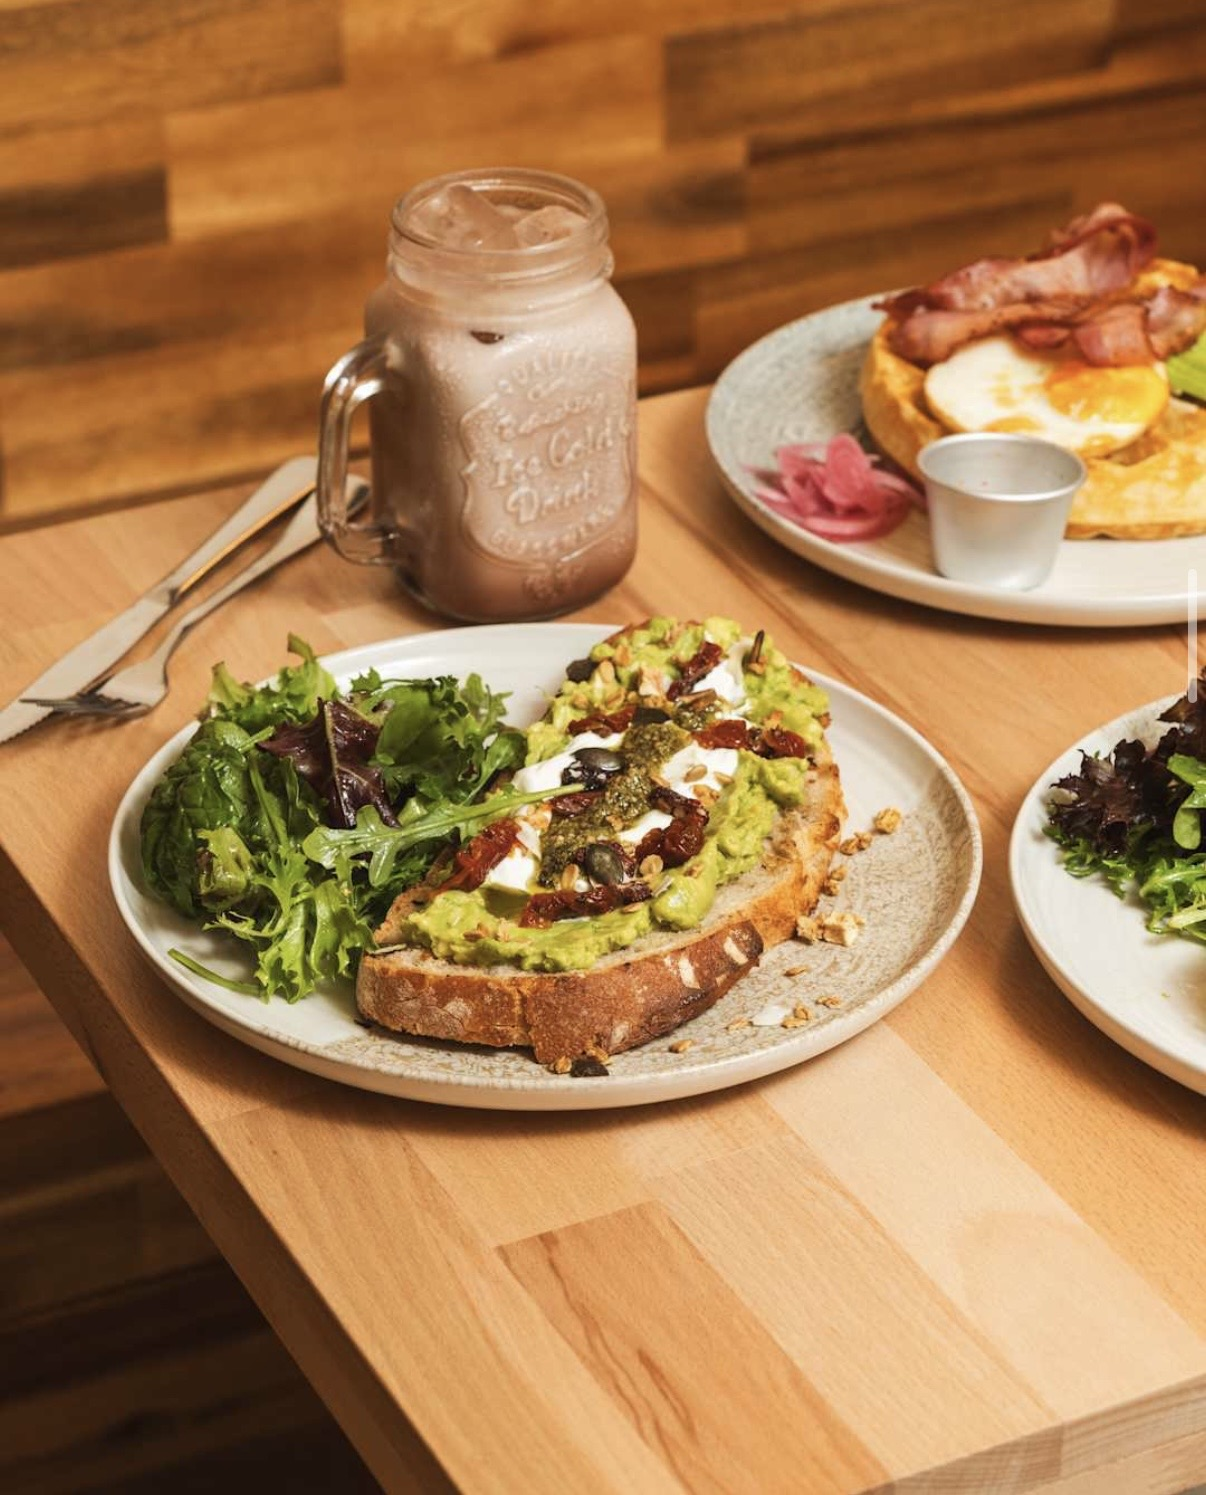
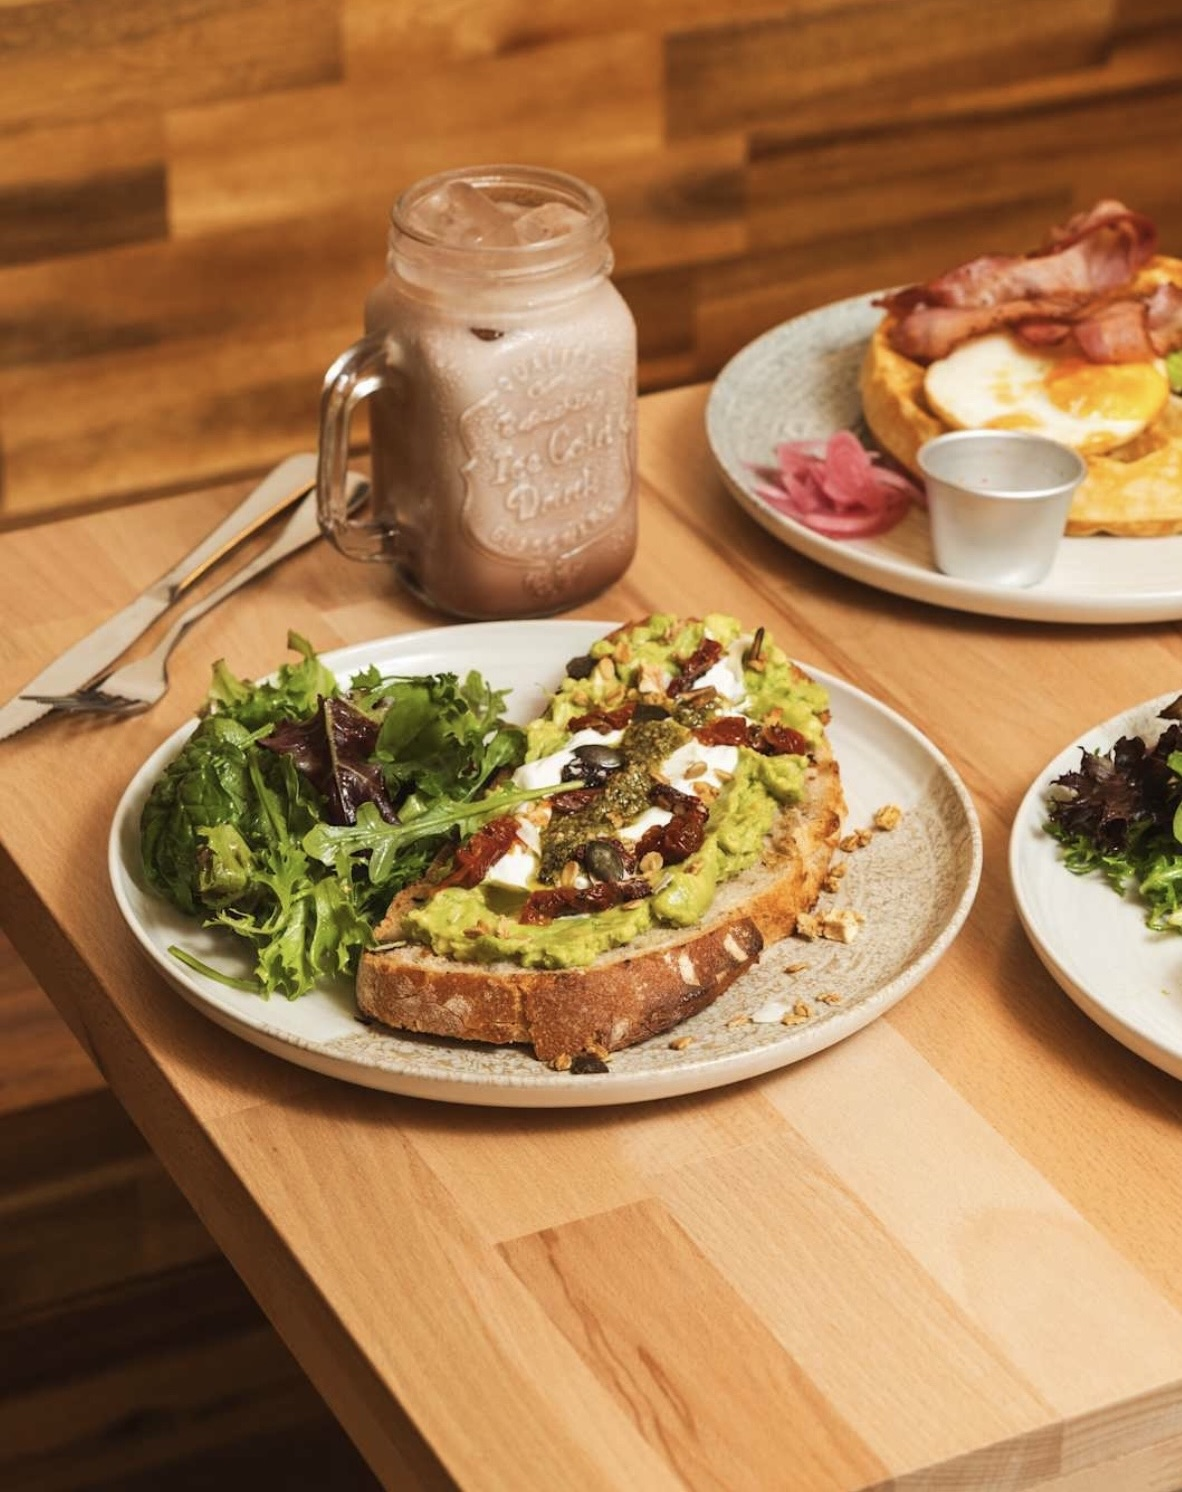
toggle EN header, carrousel benedict + fondu, cadrages photos, traduction EN complete

diff --git a/src/components/Menu.tsx b/src/components/Menu.tsx
@@ -1,6 +1,8 @@
 import menulogo from '../assets/menulogo.png';
 import brunch from '../assets/formuleBrunch.jpg';
 import avocadoEgg from '../assets/avocadoEgg.jpg';
+import salmonEgg from '../assets/salmonEgg.jpg';
+import baconEgg from '../assets/baconEgg.jpg';
 import wafflebacon from '../assets/waffleBacon2.jpg';
 import avocadoToast from '../assets/avocadoToast.jpg';
 import salmonToast from '../assets/salmonToast.png';
@@ -11,12 +13,13 @@ import petitgranola from '../assets/smallGranola.jpg';
 import roseLatte from '../assets/roseLatte.jpg';
 import iceMaRas from '../assets/iceMatchaRas2.jpg';
 
-import { type ReactNode } from 'react';
+import { useState, useEffect, useRef, type ReactNode } from 'react';
 
 // Interfaces de typage
 interface DishCardProps {
   image?: string;
   alt?: string;
+  imgPosition?: string;
   name: string;
   price: string | number;
   description?: string;
@@ -33,6 +36,7 @@ interface MenuSectionProps {
 function DishCard({
   image = '',
   alt = '',
+  imgPosition = 'center',
   name,
   price,
   description = '',
@@ -40,7 +44,102 @@ function DishCard({
 }: DishCardProps) {
   return (
     <article className="dish">
-      {image && <img src={image} alt={alt} className="dish-img" />}
+      {image && (
+        <img
+          src={image}
+          alt={alt}
+          className="dish-img"
+          style={{ objectPosition: imgPosition }}
+        />
+      )}
+      <div className="dish-text">
+        <h4>
+          {name} - {price}
+        </h4>
+        <p>{description}</p>
+        {extras && <p>{extras}</p>}
+      </div>
+    </article>
+  );
+}
+
+// Mini-carrousel : les photos défilent toutes seules, dots cliquables + swipe.
+// Dès que le visiteur prend la main, on ralentit (5s -> 15s) pour le laisser regarder.
+function DishCarousel({
+  images,
+  name,
+  price,
+  description = '',
+  extras = '',
+  en = false,
+}: {
+  images: { src: string; alt: string; position?: string; zoom?: number }[];
+  name: string;
+  price: string | number;
+  description?: string;
+  extras?: string;
+  en?: boolean;
+}) {
+  const [index, setIndex] = useState(0);
+  const [delay, setDelay] = useState(5000);
+  const touchX = useRef<number | null>(null);
+
+  useEffect(() => {
+    const id = setInterval(() => {
+      setIndex((i) => (i + 1) % images.length);
+    }, delay);
+    return () => clearInterval(id);
+  }, [index, delay, images.length]);
+
+  const goTo = (i: number) => {
+    setIndex((i + images.length) % images.length);
+    setDelay(10000);
+  };
+
+  return (
+    <article className="dish">
+      <div>
+        <div style={{ overflow: 'hidden', borderRadius: 12 }}>
+        <img
+          key={index}
+          src={images[index].src}
+          alt={images[index].alt}
+          className="dish-img dish-fade"
+            style={{
+              display: 'block',
+              objectPosition: images[index].position ?? 'center',
+              transform: images[index].zoom
+                ? `scale(${images[index].zoom})`
+                : undefined,
+            }}
+          onTouchStart={(e) => {
+            touchX.current = e.touches[0].clientX;
+          }}
+          onTouchEnd={(e) => {
+            if (touchX.current === null) return;
+            const dx = e.changedTouches[0].clientX - touchX.current;
+            touchX.current = null;
+            if (dx < -40) goTo(index + 1); // swipe gauche -> suivante
+            else if (dx > 40) goTo(index - 1); // swipe droit -> précédente
+          }}
+        />
+        </div>
+        <div className="dots">
+          {images.map((_, i) => (
+            <button
+              key={i}
+              type="button"
+              className={i === index ? 'dot dot-active' : 'dot'}
+              aria-label={
+                en
+                  ? `Photo ${i + 1} of ${images.length}`
+                  : `Photo ${i + 1} sur ${images.length}`
+              }
+              onClick={() => goTo(i)}
+            />
+          ))}
+        </div>
+      </div>
       <div className="dish-text">
         <h4>
           {name} - {price}
@@ -100,10 +199,17 @@ export default function Menu({ en = false }: { en?: boolean }) {
         </article>
       </MenuSection>
 
-      <MenuSection id="sale" title={en ? 'Savory' : 'Plat Salé'}>
-        <DishCard
-          image={avocadoEgg}
-          alt="Avocado egg benedict"
+      <MenuSection id="sale" title={en ? 'Savory dish' : 'Plat Salé'}>
+        <DishCarousel
+          images={[
+            { src: avocadoEgg, alt: 'Avocado egg benedict', zoom: 1.15 },
+            {
+              src: salmonEgg,
+              alt: 'Salmon egg benedict',
+              position: 'center 75%',
+            },
+            { src: baconEgg, alt: 'Bacon egg benedict' },
+          ]}
           name="Avocado Egg Benedict"
           price="13,90"
           description={
@@ -112,6 +218,7 @@ export default function Menu({ en = false }: { en?: boolean }) {
               : 'Pain de muffin, avocat, coleslaw, 2 œufs pochés, sauce hollandaise, salade'
           }
           extras={en ? 'SMOKED SALMON or BACON + 2€' : 'SAUMON FUMÉ ou BACON + 2€'}
+          en={en}
         />
         <DishCard
           image={wafflebacon}
@@ -143,6 +250,7 @@ export default function Menu({ en = false }: { en?: boolean }) {
         <DishCard
           image={salmonToast}
           alt="Saumon Toast"
+          imgPosition="center 55%"
           name="Saumon Toast"
           price="14,90"
           description={
@@ -174,7 +282,7 @@ export default function Menu({ en = false }: { en?: boolean }) {
         />
       </MenuSection>
 
-      <MenuSection id="sucre" title={en ? 'Sweet' : 'Plat Sucré'}>
+      <MenuSection id="sucre" title={en ? 'Sweet dish' : 'Plat Sucré'}>
         <h3 style={{ textAlign: 'center' }}>
           {' '}
           {en
@@ -244,6 +352,7 @@ export default function Menu({ en = false }: { en?: boolean }) {
         <DishCard
           image={petitgranola}
           alt="petit granola"
+          imgPosition="center 55%"
           name="Petit Granola"
           price="6,00"
           description={

diff --git a/src/index.css b/src/index.css
@@ -202,7 +202,7 @@ button:focus-visible {
 .site-header nav {
   display: flex; /* enfants côte à côte pilotés, fini l'alignement baseline */
   align-items: center; /* centrés verticalement, au pixel près */
-  gap: 16px; /* espace ENTRE les boutons (remplace leurs marges latérales) */
+  gap: 10px; /* espace ENTRE les boutons (remplace leurs marges latérales) */
 }
 
 .site-logo {
@@ -497,6 +497,40 @@ button:focus-visible {
   flex: 1;
 } /* le texte prend tout le reste */
 
+.dots {
+  display: flex; /* pastilles côte à côte */
+  justify-content: center; /* centrées sous la photo */
+  gap: 6px;
+  margin-top: 8px;
+}
+
+.dot {
+  width: 8px;
+  height: 8px;
+  border-radius: 50%; /* rond */
+  border: none;
+  padding: 0;
+  background: #e8c9a0; /* beige : photo non visible */
+  cursor: pointer;
+}
+
+.dot-active {
+  background: #b5651d; /* marron du site : photo visible */
+}
+
+@keyframes dish-fade {
+  from { opacity: 0; } /* démarre invisible */
+  to { opacity: 1; } /* arrive à pleine visibilité */
+}
+
+.dish-fade {
+  animation: dish-fade 0.9s ease-in-out; /* fondu doux à chaque nouvelle photo */
+}
+
+@media (prefers-reduced-motion: reduce) {
+  .dish-fade { animation: none; } /* pas d'animation si l'utilisateur la refuse */
+}
+
 .formuladish-img {
   width: 140px;
   height: 200px;
@@ -580,7 +614,10 @@ button:focus-visible {
   .dish-img,
   .formuladish-img {
     width: 100%;
-    height: 250px;
+    max-width: 430px;
+    height: 275px;
+    display: block;
+    margin: 0 auto;
   }
 
   /* Header compact : boutons plus petits pour tenir sur 360px */

diff --git a/src/App.tsx b/src/App.tsx
@@ -54,6 +54,9 @@ export default function App() {
           <img src={logo} alt="Logo OneCorner" />
         </button>
         <nav>
+          <a href="#contact" className="btn">
+            Contact
+          </a>
           <button
             type="button"
             className="btn-second"
@@ -61,9 +64,6 @@ export default function App() {
           >
             {en ? 'FR' : 'EN'}
           </button>
-          <a href="#contact" className="btn-second">
-            Contact
-          </a>
           <div className="dropdown">
             <button className="btn" onClick={() => setPage('menu')}>
               Menu
